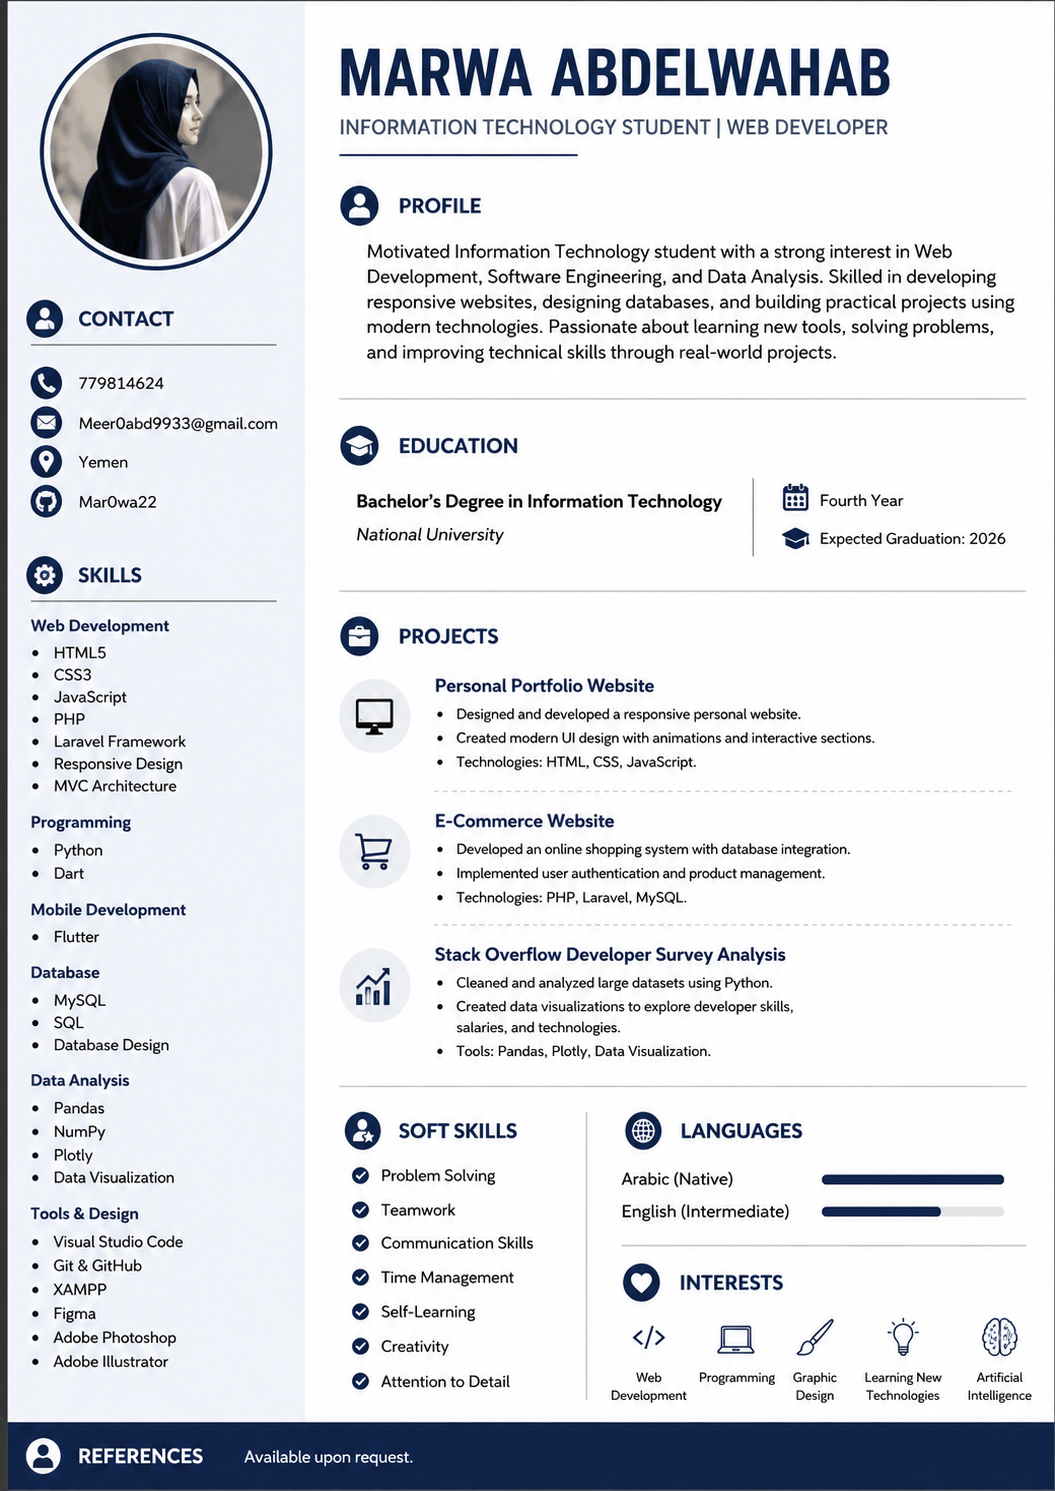
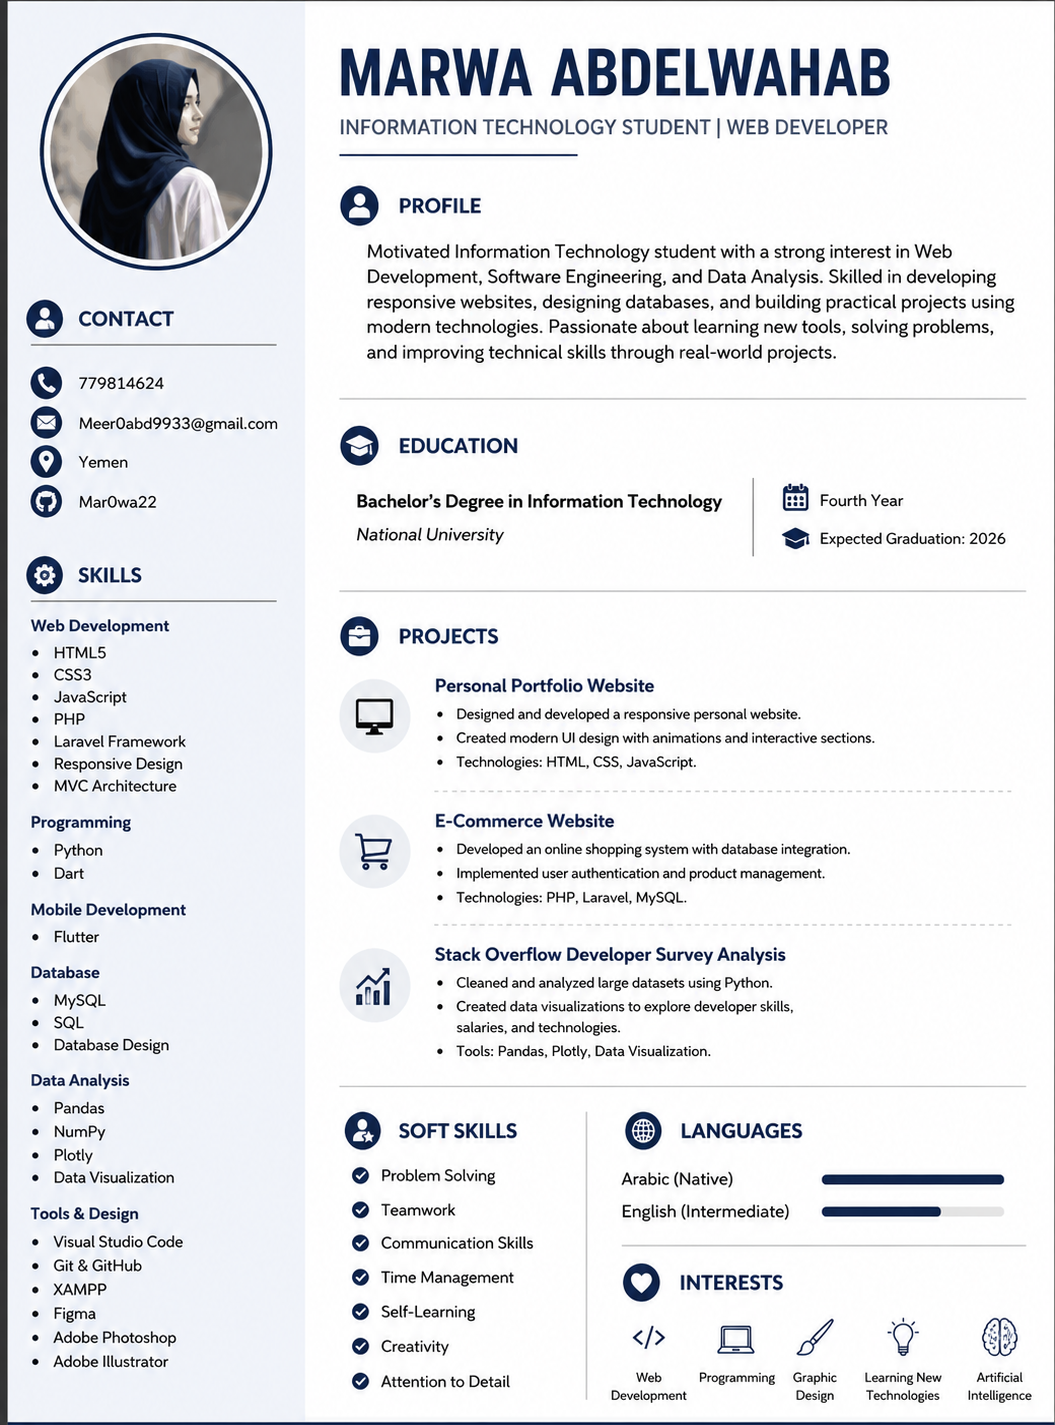
update

Changed region(s): [[0.0, 0.0, 1.0, 1.0], [0.728, 0.3088, 0.9706, 0.4014], [0.3336, 0.5558, 0.3943, 0.6175]]

diff --git a/about.html b/about.html
@@ -18,35 +18,51 @@
     </video>
 
     <section class="main-section">
-        <nav>
-            <h1 data-aos="zoom-in" data-aos-duration="1000">
-                <span style="color:#4acfee;" data-lang="engineer">Engineer</span>
-                Marwa Al-Mansour
-            </h1>
-            <ul>
-                <li data-aos="fade-up" data-aos-duration="1000" data-aos-delay="100">
-                    <a href="index.html" data-lang="home">Home</a>
-                </li>
-                <li data-aos="fade-up" data-aos-duration="1000" data-aos-delay="200">
-                    <a class="active" href="about.html" data-lang="about">About</a>
-                </li>
-                <li data-aos="fade-up" data-aos-duration="1000" data-aos-delay="300">
-                    <a href="projects.html" data-lang="projects">Projects</a>
-                </li>
-                <li data-aos="fade-up" data-aos-duration="1000" data-aos-delay="500">
-                    <a href="contact.html" data-lang="contact">Contact</a>
-                </li>
-            </ul>
-            <div class="menu-toggle" id="menu-toggle">
-                <i class='bx bx-menu'></i>
-            </div>
-            <div class="nav-tools">
-                <div class="language-toggle" id="language-toggle">
-                    EN
-                </div>
-            
-            </div>
-        </nav>
+       <nav>
+
+    <h1 class="logo" data-aos="zoom-in" data-aos-duration="1000">
+        <span style="color:#4acfee;" data-lang="engineer">Engineer</span>
+        Marwa Al-Mansour
+    </h1>
+
+    <ul id="nav-links">
+        <li><a class="active" href="index.html" data-lang="home">Home</a></li>
+        <li><a href="about.html" data-lang="about">About</a></li>
+        <li><a href="projects.html" data-lang="projects">Projects</a></li>
+        <li><a href="contact.html" data-lang="contact">Contact</a></li>
+    </ul>
+
+    <div class="right-tools">
+        <div class="language-toggle" id="language-toggle">EN</div>
+
+        <div class="menu-toggle" id="menu-toggle">
+            <i class='bx bx-menu'></i>
+        </div>
+    </div>
+
+</nav><nav>
+
+    <h1 class="logo" data-aos="zoom-in" data-aos-duration="1000">
+        <span style="color:#4acfee;" data-lang="engineer">Engineer</span>
+        Marwa Abdelwahab
+    </h1>
+
+    <ul id="nav-links">
+        <li><a class="active" href="index.html" data-lang="home">Home</a></li>
+        <li><a href="about.html" data-lang="about">About</a></li>
+        <li><a href="projects.html" data-lang="projects">Projects</a></li>
+        <li><a href="contact.html" data-lang="contact">Contact</a></li>
+    </ul>
+
+    <div class="right-tools">
+        <div class="language-toggle" id="language-toggle">EN</div>
+
+        <div class="menu-toggle" id="menu-toggle">
+            <i class='bx bx-menu'></i>
+        </div>
+    </div>
+
+</nav>
 
         <section class="about-page">
             <h1 class="title" data-lang="aboutTitle">

diff --git a/contact.html b/contact.html
@@ -19,34 +19,28 @@
 
     <section class="main-section">
         <nav>
-            <h1 data-aos="zoom-in" data-aos-duration="1000">
-                <span style="color:#4acfee;" data-lang="engineer">Engineer</span>
-                Marwa Al-Mansour
-            </h1>
-            <ul>
-                <li data-aos="fade-up" data-aos-duration="1000" data-aos-delay="100">
-                    <a href="index.html" data-lang="home">Home</a>
-                </li>
-                <li data-aos="fade-up" data-aos-duration="1000" data-aos-delay="200">
-                    <a href="about.html" data-lang="about">About</a>
-                </li>
-                <li data-aos="fade-up" data-aos-duration="1000" data-aos-delay="300">
-                    <a href="projects.html" data-lang="projects">Projects</a>
-                </li>
-                <li data-aos="fade-up" data-aos-duration="1000" data-aos-delay="500">
-                    <a class="active" href="contact.html" data-lang="contact">Contact</a>
-                </li>
-            </ul>
-            <div class="menu-toggle" id="menu-toggle">
-                <i class='bx bx-menu'></i>
-            </div>
-            <div class="nav-tools">
-                <div class="language-toggle" id="language-toggle">
-                    EN
-                </div>
-            
-            </div>
-        </nav>
+
+    <h1 class="logo" data-aos="zoom-in" data-aos-duration="1000">
+        <span style="color:#4acfee;" data-lang="engineer">Engineer</span>
+        Marwa Abdelwahab
+    </h1>
+
+    <ul id="nav-links">
+        <li><a class="active" href="index.html" data-lang="home">Home</a></li>
+        <li><a href="about.html" data-lang="about">About</a></li>
+        <li><a href="projects.html" data-lang="projects">Projects</a></li>
+        <li><a href="contact.html" data-lang="contact">Contact</a></li>
+    </ul>
+
+    <div class="right-tools">
+        <div class="language-toggle" id="language-toggle">EN</div>
+
+        <div class="menu-toggle" id="menu-toggle">
+            <i class='bx bx-menu'></i>
+        </div>
+    </div>
+
+</nav>
 
         <section class="contact-page">
             <h1 class="title" data-lang="contactTitle">
@@ -77,7 +71,7 @@
                             Location
                         </h3>
                         <p data-lang="locationValue">
-                            Yemen - Sana'a - South Sixty
+                            Yemen - Sana'a 
                         </p>
                     </div>
                     <div class="contact-card">

diff --git a/projects.html b/projects.html
@@ -18,35 +18,29 @@
     </video>
 
     <section class="main-section">
-        <nav>
-            <h1 data-aos="zoom-in" data-aos-duration="1000">
-                <span style="color:#4acfee;" data-lang="engineer">Engineer</span>
-                Marwa Al-Mansour
-            </h1>
-            <ul>
-                <li data-aos="fade-up" data-aos-duration="1000" data-aos-delay="100">
-                    <a href="index.html" data-lang="home">Home</a>
-                </li>
-                <li data-aos="fade-up" data-aos-duration="1000" data-aos-delay="200">
-                    <a href="about.html" data-lang="about">About</a>
-                </li>
-                <li data-aos="fade-up" data-aos-duration="1000" data-aos-delay="300">
-                    <a class="active" href="projects.html" data-lang="projects">Projects</a>
-                </li>
-                <li data-aos="fade-up" data-aos-duration="1000" data-aos-delay="500">
-                    <a href="contact.html" data-lang="contact">Contact</a>
-                </li>
-            </ul>
-            <div class="menu-toggle" id="menu-toggle">
-                <i class='bx bx-menu'></i>
-            </div>
-            <div class="nav-tools">
-                <div class="language-toggle" id="language-toggle">
-                    EN
-                </div>
-        
-            </div>
-        </nav>
+       <nav>
+
+    <h1 class="logo" data-aos="zoom-in" data-aos-duration="1000">
+        <span style="color:#4acfee;" data-lang="engineer">Engineer</span>
+        Marwa Abdelwahab
+    </h1>
+
+    <ul id="nav-links">
+        <li><a class="active" href="index.html" data-lang="home">Home</a></li>
+        <li><a href="about.html" data-lang="about">About</a></li>
+        <li><a href="projects.html" data-lang="projects">Projects</a></li>
+        <li><a href="contact.html" data-lang="contact">Contact</a></li>
+    </ul>
+
+    <div class="right-tools">
+        <div class="language-toggle" id="language-toggle">EN</div>
+
+        <div class="menu-toggle" id="menu-toggle">
+            <i class='bx bx-menu'></i>
+        </div>
+    </div>
+
+</nav>
 
         <section class="projects-page">
             <h1 class="title" data-lang="projectsTitle">

diff --git a/project.html b/project.html
@@ -17,42 +17,29 @@
     </video>
 
     <section class="main-section">
-        <nav>
-            <h1>
-                <span style="color:#4acfee;" data-lang="engineer">
-                    Engineer
-                </span>
-                Marwa Al-Mansour
-            </h1>
-            <ul>
-                <li>
-                    <a href="index.html" data-lang="home">Home</a>
-                </li>
-                <li>
-                    <a href="about.html" data-lang="about">About</a>
-                </li>
-                <li>
-                    <a href="projects.html" class="active" data-lang="projects">
-                        Projects
-                    </a>
-                </li>
-                <li>
-                    <a href="contact.html" data-lang="contact">
-                        Contact
-                    </a>
-                </li>
-            </ul>
-            <div class="menu-toggle" id="menu-toggle">
-                <i class='bx bx-menu'></i>
-            </div>
-            <div class="nav-tools">
-                <div class="language-toggle" id="language-toggle">
-                    EN
-                </div>
-                
-            </div>
-        </nav>
+       <nav>
 
+    <h1 class="logo" data-aos="zoom-in" data-aos-duration="1000">
+        <span style="color:#4acfee;" data-lang="engineer">Engineer</span>
+        Marwa Abdelwahab
+    </h1>
+
+    <ul id="nav-links">
+        <li><a class="active" href="index.html" data-lang="home">Home</a></li>
+        <li><a href="about.html" data-lang="about">About</a></li>
+        <li><a href="projects.html" data-lang="projects">Projects</a></li>
+        <li><a href="contact.html" data-lang="contact">Contact</a></li>
+    </ul>
+
+    <div class="right-tools">
+        <div class="language-toggle" id="language-toggle">EN</div>
+
+        <div class="menu-toggle" id="menu-toggle">
+            <i class='bx bx-menu'></i>
+        </div>
+    </div>
+
+</nav>
         <section class="project-details">
             <h1 class="title" id="project-title"></h1>
             <p class="projects-subtitle" id="project-description"></p>

diff --git a/index.html b/index.html
@@ -18,26 +18,29 @@
     </video>
 
     <section class="main-section">
-        <nav>
-            <h1 data-aos="zoom-in" data-aos-duration="1000">
-                <span style="color: #4acfee;" data-lang="engineer">Engineer</span>
-                Marwa Al-Mansour
-            </h1>
-            <ul>
-                <li data-aos="fade-up" data-aos-duration="1000" data-aos-delay="100"><a class="active" href="index.html" data-lang="home">Home</a></li>
-                <li data-aos="fade-up" data-aos-duration="1000" data-aos-delay="200"><a href="about.html" data-lang="about">About</a></li>
-                <li data-aos="fade-up" data-aos-duration="1000" data-aos-delay="300"><a href="projects.html" data-lang="projects">Projects</a></li>
-                <li data-aos="fade-up" data-aos-duration="1000" data-aos-delay="500"><a href="contact.html" data-lang="contact">Contact</a></li>
-            </ul>
-            <div class="menu-toggle" id="menu-toggle">
-                <i class='bx bx-menu'></i>
-            </div>
-            <div class="nav-tools">
-                <div class="language-toggle" id="language-toggle">
-                    EN
-                </div>
-            </div>
-        </nav>
+       <nav>
+
+    <h1 class="logo" data-aos="zoom-in" data-aos-duration="1000">
+        <span style="color:#4acfee;" data-lang="engineer">Engineer</span>
+        Marwa Abdelwahab
+    </h1>
+
+    <ul id="nav-links">
+        <li><a class="active" href="index.html" data-lang="home">Home</a></li>
+        <li><a href="about.html" data-lang="about">About</a></li>
+        <li><a href="projects.html" data-lang="projects">Projects</a></li>
+        <li><a href="contact.html" data-lang="contact">Contact</a></li>
+    </ul>
+
+    <div class="right-tools">
+        <div class="language-toggle" id="language-toggle">EN</div>
+
+        <div class="menu-toggle" id="menu-toggle">
+            <i class='bx bx-menu'></i>
+        </div>
+    </div>
+
+</nav>
 
         <div class="hero">
             <div class="hero-info">

diff --git a/language.js b/language.js
@@ -68,7 +68,7 @@ const translations = {
         phone: "Phone",
         email: "Email",
         location: "Location",
-        locationValue: "Yemen - Sana'a - South Sixty",
+        locationValue: "Yemen - Sana'a ",
         availability: "Availability",
         available: "Available for Freelance",
         yourName: "Your Name",
@@ -154,7 +154,7 @@ const translations = {
         phone: "الهاتف",
         email: "البريد الإلكتروني",
         location: "الموقع",
-        locationValue: "اليمن - صنعاء - شارع الستين الجنوبي",
+        locationValue: "اليمن - صنعاء",
         availability: "التوفر",
         available: "متاح للعمل الحر",
         yourName: "الاسم",

diff --git a/style.css b/style.css
@@ -1012,28 +1012,32 @@ padding-bottom: 40px;
 }
 
 nav{
-    display: flex;
-    justify-content: space-between;
-    align-items: center;
-    padding: 20px;
-    position: relative;
+    display:grid;
+    grid-template-columns:50px 1fr 60px;
+    align-items:center;
 }
 
-.nav-tools{
-    display: flex;
-    align-items: center;
-    gap: 15px;
+.logo{
+    text-align:center;
+    font-size:22px;
 }
 
-[dir="rtl"] .nav-tools{
-    flex-direction: row;
+.right-tools{
+    justify-content:flex-end;
 }
+
+.menu-toggle{
+    display: block;
+    order:0;
+}
+
+.language-toggle{
+    order:1;
+}
+
+
 nav h1 {
 font-size: 22px;
-}
-
-.menu-toggle {
-display: block;
 }
 
 nav ul {
